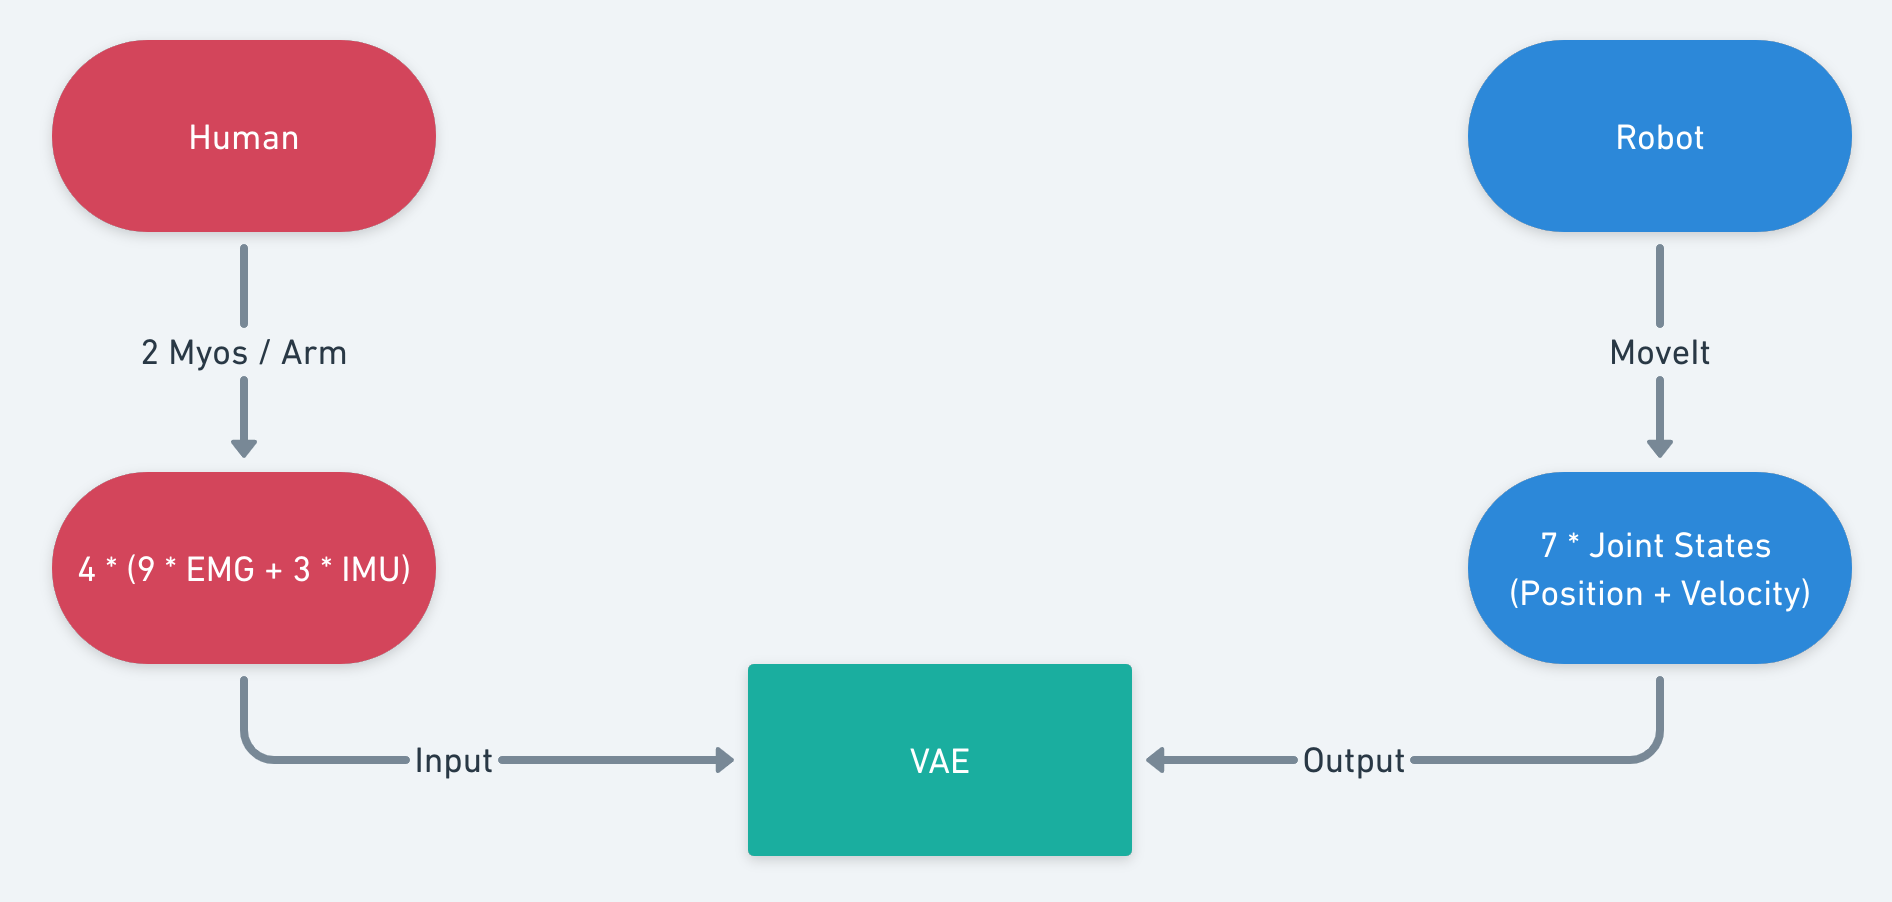
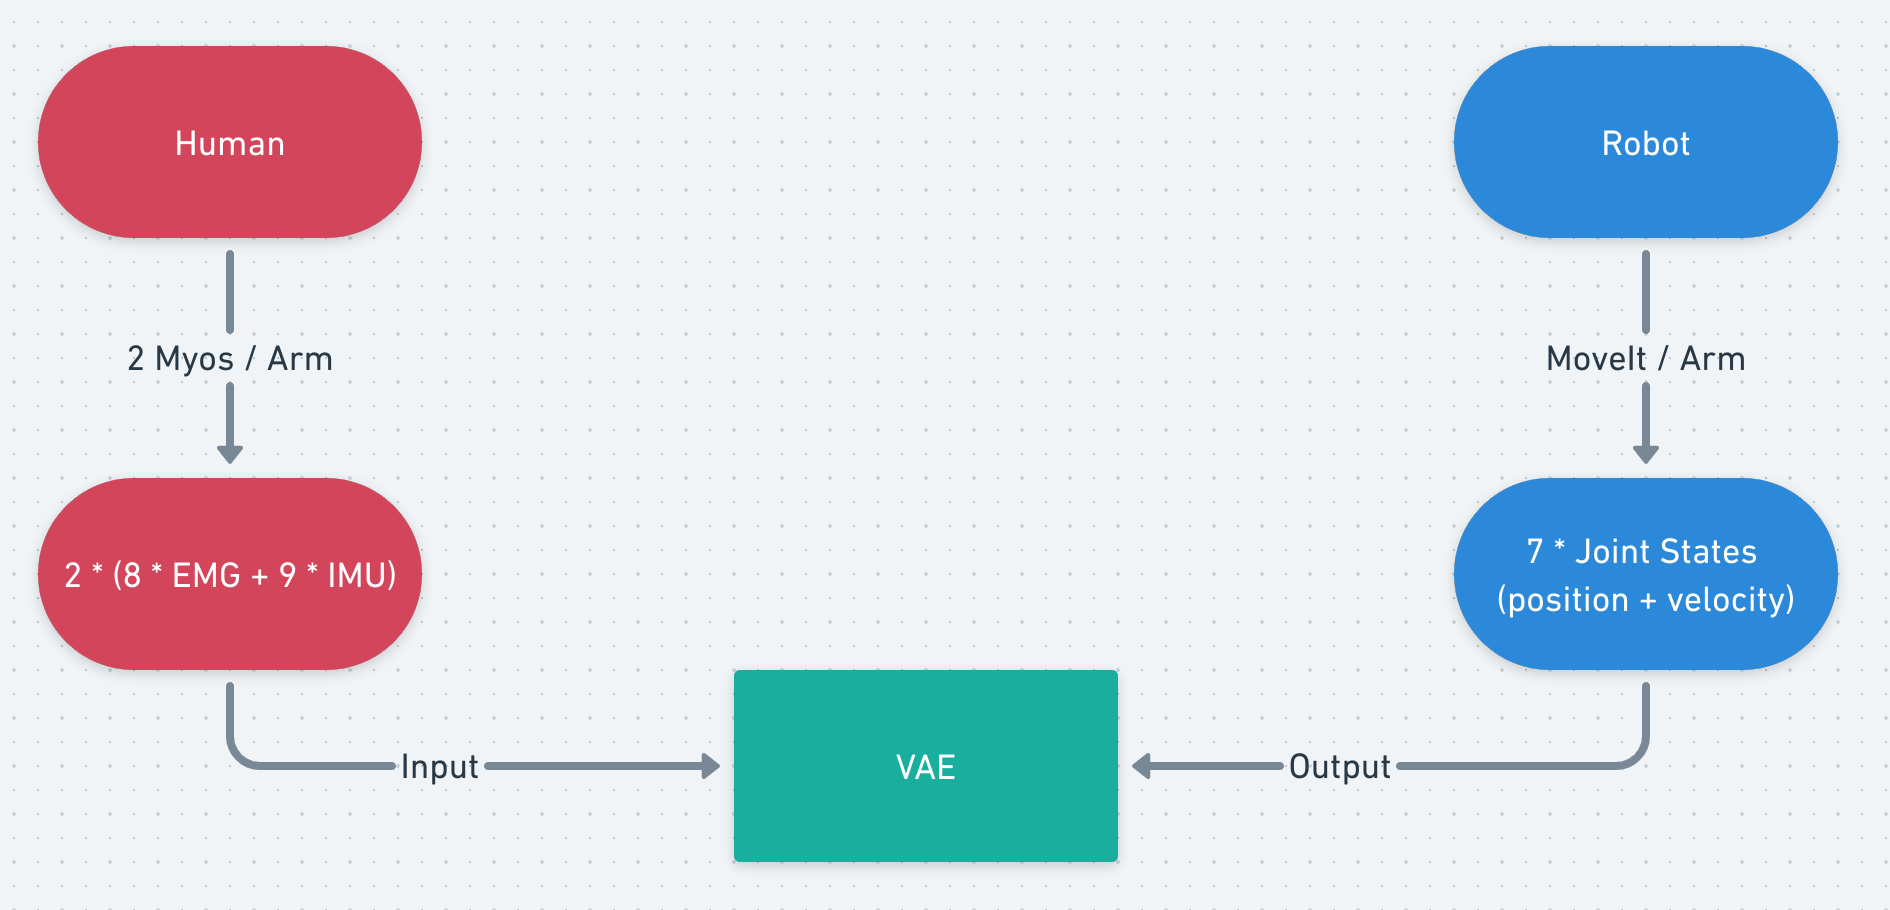
pic

diff --git a/README.md b/README.md
@@ -2,7 +2,9 @@
 
 ### Pipeline
 
-![pipline](/home/jameszhz/Desktop/FinalProj/myo_ws/src/move_group_pkg/pipline.png)
+Total task involves two arms but train them one by one: 
+
+![pipline](pipline.png)
 
 ### Data Collection
 
@@ -10,11 +12,7 @@ Collecting data from both end during performing same reaching tasks:
 
 **For input end - record EMG and IMU topic 4 Myo devices (2 for each arm) from human:**
 
-Procedure describes in 
-
-[connect_myo]: https://github.com/jameszhz1647/connect_myo/tree/input_data
-
- repo
+Procedure describes in https://github.com/jameszhz1647/connect_myo/tree/input_data
 
 **For output end - used ROS MoveIt to plan a motion by setting target end-effector for Franka robot arm, recorded the topics of joint positions and velocities:**
 
